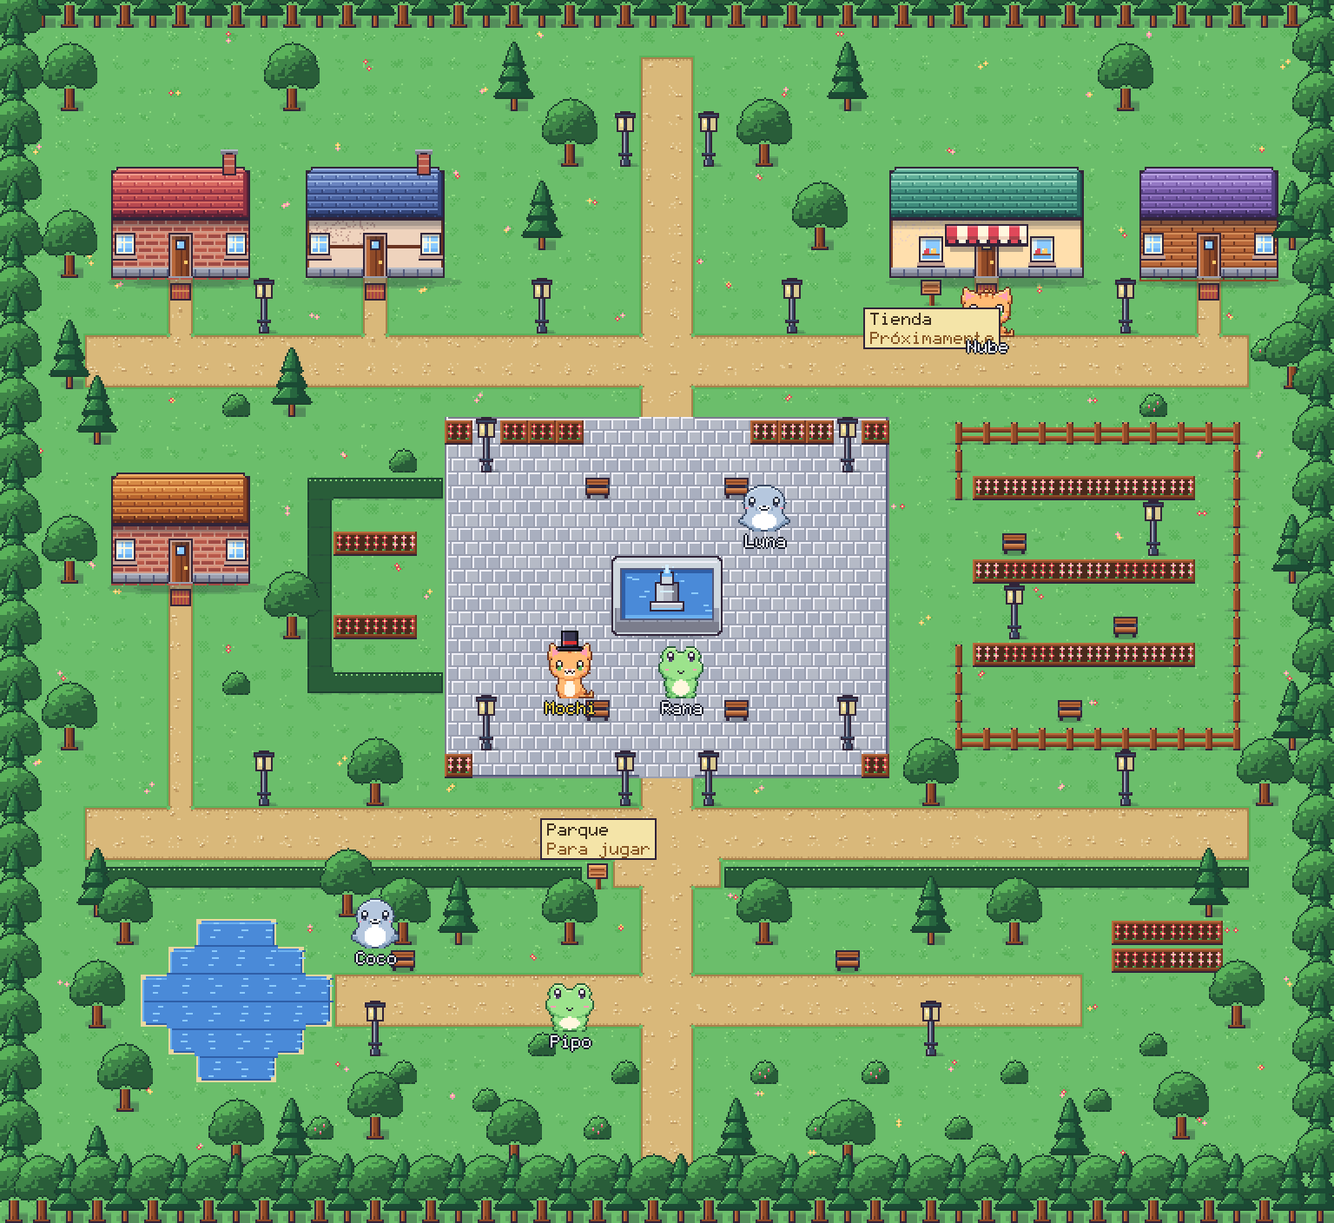
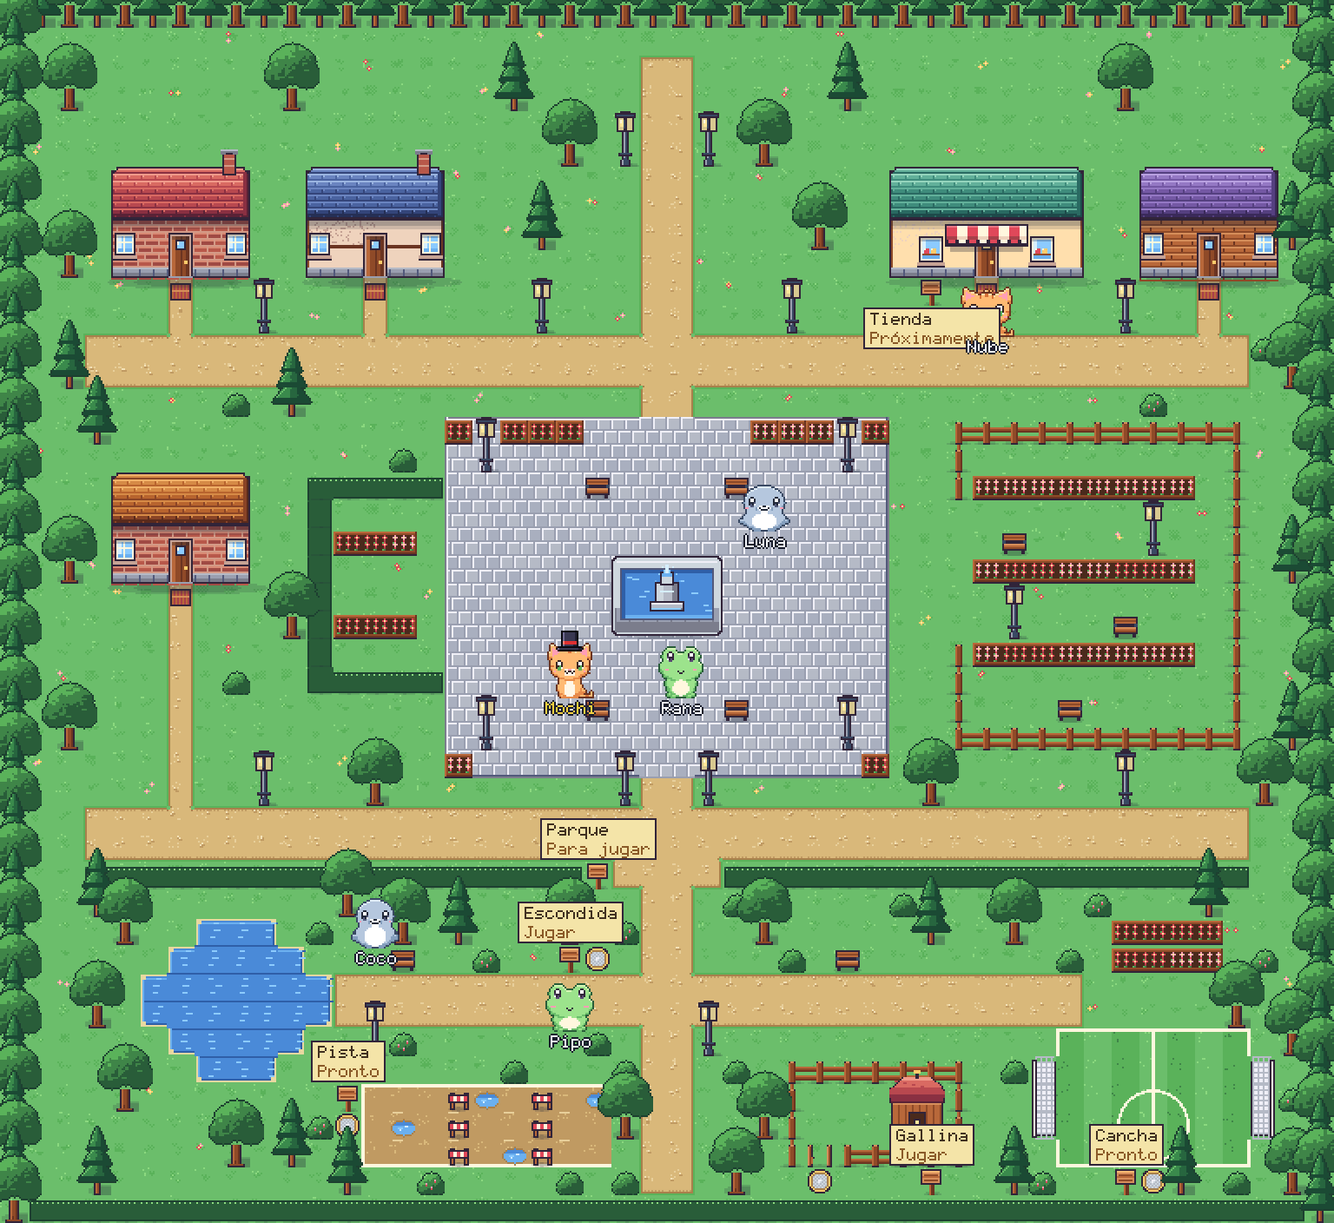
feat(map): game places in the Parque: gallinero, cancha, pista and the escondida pad, each with a signpost

diff --git a/src/art/places.js b/src/art/places.js
@@ -1,0 +1,108 @@
+// The game places of the Parque, drawn in the town's palette: the pad a pet stands on, the gallinero's gate and coop, the cancha's pitch
+// and goals, the pista's lanes, hurdles and puddles. Ground functions paint one 16 px tile at (x, y); `at(dx, dy)` answers the neighbours' chars.
+import { P, noise, rect, dot, shadow, canvas } from './palette.js';
+import * as G from './ground.js';
+
+/** The pad: a round stepping stone with a gold ring, so it reads as "stand here". */
+export function pad(ctx, x, y, tx, ty) {
+  G.grass(ctx, x, y, tx, ty);
+  const cx = x + 8, cy = y + 8;
+  for (let j = -7; j <= 7; j++) for (let i = -7; i <= 7; i++) {
+    const d = Math.hypot(i + 0.5, j + 0.5);
+    if (d > 7.2) continue;
+    dot(ctx, d > 6.2 ? P.ink : d > 5.2 ? P.yellow : d > 4.4 ? P.d0 : (i + j) % 2 ? P.s3 : P.s4, cx + i, cy + j);
+  }
+  for (const [i, j] of [[-1, -1], [0, -1], [-1, 0]]) dot(ctx, P.s5, cx + i, cy + j);
+}
+
+/** The open gate: two posts and the leaf swung open to one side. */
+export function gate(ctx, x, y, tx, ty) {
+  G.grass(ctx, x, y, tx, ty);
+  for (const px of [1, 12]) {
+    rect(ctx, P.ink, x + px, y + 3, 3, 13); rect(ctx, P.w2, x + px + 1, y + 4, 1, 11); rect(ctx, P.w4, x + px, y + 4, 1, 11); rect(ctx, P.w4, x + px + 1, y + 3, 1, 1);
+  }
+  rect(ctx, P.ink, x + 3, y + 9, 1, 5); rect(ctx, P.w3, x + 3, y + 10, 1, 4);                          // the leaf, open against the post
+  rect(ctx, P.ink, x + 4, y + 10, 1, 1);
+  shadow(ctx, x + 8, y + 15, 7, 1.5, 0.22);
+}
+
+const pitchLike = (c) => c === 'y' || c === 'g';
+
+/** Mowed grass in stripes with the white lines: the border, the halfway line and the centre circle. */
+export function pitch(ctx, x, y, tx, ty, at, c) {
+  rect(ctx, tx % 2 ? P.g3 : P.g2, x, y, 16, 16);
+  for (let i = 0; i < 4; i++) dot(ctx, tx % 2 ? P.g4 : P.g1, x + ((noise(tx, ty, 80 + i) * 15) | 0), y + ((noise(tx, ty, 90 + i) * 15) | 0));
+  const line = (px, py, w, h) => rect(ctx, P.cream, x + px, y + py, w, h);
+  if (!pitchLike(at(0, -1))) line(0, 0, 16, 2);
+  if (!pitchLike(at(0, 1))) line(0, 14, 16, 2);
+  if (!pitchLike(at(-1, 0)) && at(-1, 0) !== 'g') line(0, 0, 2, 16);
+  if (!pitchLike(at(1, 0)) && at(1, 0) !== 'g') line(14, 0, 2, 16);
+  if (tx === c.x + (c.w >> 1)) line(7, 0, 2, 16);
+  const cx = (c.x + (c.w >> 1)) * 16 + 8, cy = (c.y + (c.h >> 1)) * 16 + 8;
+  for (let j = 0; j < 16; j++) for (let i = 0; i < 16; i++) {
+    if (Math.abs(Math.hypot(tx * 16 + i - cx + 0.5, ty * 16 + j - cy + 0.5) - 20) < 0.8) dot(ctx, P.cream, x + i, y + j);
+  }
+}
+
+/** A goal seen from above: two posts and a net, open towards the pitch (`side` -1 on the left end, 1 on the right). */
+export function goal(ctx, x, y, tx, ty, at, side) {
+  rect(ctx, P.g3, x, y, 16, 16);
+  const top = at(0, -1) !== 'g', bottom = at(0, 1) !== 'g';
+  const x0 = side < 0 ? 3 : 0, x1 = side < 0 ? 16 : 13;
+  rect(ctx, P.ink, x + x0, y + (top ? 3 : 0), x1 - x0, 16 - (top ? 3 : 0) - (bottom ? 2 : 0));
+  rect(ctx, P.s5, x + x0 + 1, y + (top ? 4 : 0), x1 - x0 - 2, 16 - (top ? 4 : 0) - (bottom ? 3 : 0));
+  for (let j = 0; j < 16; j += 3) rect(ctx, P.s3, x + x0 + 1, y + j, x1 - x0 - 2, 1);                     // the net
+  for (let i = x0 + 1; i < x1 - 1; i += 3) rect(ctx, P.s3, x + i, y, 1, 16);
+  const post = side < 0 ? x + 3 : x + 12;
+  rect(ctx, P.ink, post - 1, y + (top ? 2 : 0), 3, 16 - (top ? 2 : 0) - (bottom ? 1 : 0)); rect(ctx, P.cream, post, y + (top ? 3 : 0), 1, 16 - (top ? 3 : 0) - (bottom ? 2 : 0));
+}
+
+/** One lane of the pista: packed earth with a lighter lane line and a darker rim on the outer sides. */
+export function track(ctx, x, y, tx, ty, at) {
+  rect(ctx, P.d1, x, y, 16, 16);
+  for (let i = 0; i < 7; i++) dot(ctx, noise(tx, ty, 100 + i) > 0.5 ? P.d0 : P.d2, x + ((noise(tx, ty, 110 + i) * 15) | 0), y + ((noise(tx, ty, 120 + i) * 15) | 0));
+  if (at(0, -1) !== 'j' && at(0, -1) !== 'V' && at(0, -1) !== 'w') rect(ctx, P.cream, x, y, 16, 2); else if ((tx & 1) === 0) rect(ctx, P.d3, x + 2, y, 6, 1);
+  if (at(0, 1) !== 'j' && at(0, 1) !== 'V' && at(0, 1) !== 'w') rect(ctx, P.cream, x, y + 14, 16, 2);
+  if (at(-1, 0) !== 'j' && at(-1, 0) !== 'V' && at(-1, 0) !== 'w') rect(ctx, P.cream, x, y, 2, 16);        // the start line
+}
+
+/** A hurdle across a lane: two posts and a striped bar. */
+export function hurdle(ctx, x, y, tx, ty, at) {
+  track(ctx, x, y, tx, ty, at);
+  shadow(ctx, x + 8, y + 14, 6, 1.5, 0.28);
+  for (const px of [3, 11]) { rect(ctx, P.ink, x + px, y + 5, 3, 10); rect(ctx, P.w3, x + px + 1, y + 6, 1, 8); }
+  rect(ctx, P.ink, x + 2, y + 6, 12, 5);
+  for (let i = 0; i < 5; i++) { rect(ctx, i % 2 ? P.cream : P.red, x + 3 + i * 2, y + 7, 2, 3); }
+}
+
+/** A puddle on a lane: a rippled blob of water. */
+export function puddle(ctx, x, y, tx, ty, at) {
+  track(ctx, x, y, tx, ty, at);
+  const inside = (i, j) => ((i - 8) / 6.5) ** 2 + ((j - 9) / 4) ** 2 <= 1;
+  for (let j = 4; j < 15; j++) for (let i = 1; i < 15; i++) {
+    if (inside(i, j)) dot(ctx, j < 8 ? P.a1 : P.a2, x + i, y + j);
+    else if (inside(i - 1, j) || inside(i + 1, j) || inside(i, j - 1) || inside(i, j + 1)) dot(ctx, P.d0, x + i, y + j);
+  }
+  rect(ctx, P.a3, x + 5, y + 9, 3, 1); rect(ctx, P.a4, x + 9, y + 8, 2, 1); dot(ctx, P.a4, x + 6, y + 10);
+}
+
+/** The coop, 32 x 40 (two tiles wide, two tall plus the roof): a red-roofed hut with a round door and a perch. */
+export function coop() {
+  const c = canvas(32, 40), ctx = c.getContext('2d');
+  rect(ctx, P.ink, 1, 18, 30, 22); rect(ctx, P.w3, 2, 19, 28, 20);                                       // walls: planks
+  for (let i = 5; i < 30; i += 4) rect(ctx, P.w2, i, 19, 1, 20);
+  rect(ctx, P.w4, 2, 19, 28, 1); rect(ctx, P.w1, 2, 38, 28, 1);
+  rect(ctx, P.ink, 11, 24, 10, 15); rect(ctx, P.w0, 12, 25, 8, 14); rect(ctx, P.ink, 14, 28, 4, 4); rect(ctx, P.yellow2, 15, 29, 2, 2);   // the pop hole
+  rect(ctx, P.w2, 11, 36, 10, 1); rect(ctx, P.w3, 11, 37, 10, 1);                                         // the ramp
+  const roof = ['#5a2236', '#8a3042', '#b8484f', '#d96a62', '#f09a8a'];
+  for (let j = 0; j < 12; j++) {                                                                          // the roof: a stepped triangle
+    const hw = 8 + j * 1.1;
+    rect(ctx, P.ink, Math.round(16 - hw - 1), 4 + j, Math.round(hw * 2 + 2), 1);
+    rect(ctx, roof[j < 2 ? 4 : j < 6 ? 3 : j < 10 ? 2 : 1], Math.round(16 - hw), 4 + j, Math.round(hw * 2), 1);
+  }
+  rect(ctx, P.ink, 0, 16, 32, 3); rect(ctx, roof[1], 1, 16, 30, 2); rect(ctx, roof[0], 1, 18, 30, 1);
+  for (let i = 3; i < 30; i += 5) rect(ctx, roof[2], i, 6 + ((i / 5) | 0), 2, 1);
+  rect(ctx, P.ink, 15, 1, 2, 4); rect(ctx, P.yellow, 14, 0, 4, 2);                                        // the weather vane
+  shadow(ctx, 16, 38, 15, 2.5, 0.3);
+  return c;
+}

diff --git a/src/map.js b/src/map.js
@@ -23,6 +23,15 @@ export const TILES = {
   'S': { name: 'sign', solid: true },
   'H': { name: 'building', solid: true },     // roof, wall or the door of a house that cannot be entered
   'E': { name: 'door', solid: false },         // a door that can be entered (see DOORS)
+  // the game places in the Parque (see GAME_PLACES)
+  'p': { name: 'spot', solid: false },         // the pad a pet stands on to start a game
+  'a': { name: 'gate', solid: false },         // the open gate of the gallinero
+  'G': { name: 'coop', solid: true },
+  'y': { name: 'pitch', solid: false },        // the cancha's grass
+  'g': { name: 'goal', solid: true },
+  'j': { name: 'track', solid: false },        // the pista's lanes
+  'V': { name: 'hurdle', solid: false },       // walkable for now: the race game will make pets jump it
+  'w': { name: 'puddle', solid: false },
   // the shop
   '_': { name: 'floor', solid: false },
   'r': { name: 'rug', solid: false },
@@ -64,7 +73,36 @@ export const DOORS = {
 export const SIGNS = [
   { area: 'town', x: 21, y: 31, text: 'Parque', sub: 'Para jugar' },
   { area: 'town', x: 33, y: 10, text: 'Tienda', sub: 'Próximamente', below: true },
+  { area: 'town', x: 20, y: 34, text: 'Escondida', sub: 'Jugar' },
+  { area: 'town', x: 33, y: 42, text: 'Gallina', sub: 'Jugar' },
+  { area: 'town', x: 40, y: 42, text: 'Cancha', sub: 'Pronto' },
+  { area: 'town', x: 12, y: 39, text: 'Pista', sub: 'Pronto' },
   { area: 'shop', x: 6.5, y: 2, text: 'Tienda', sub: 'Próximamente' },
+];
+
+/**
+ * The games' places, all in the Parque. `spot`: the pad tiles a pet stands on to start the game, `sign`: its signpost, `zone`: the
+ * tiles the game is played on (pets playing cannot leave it). `playable: false` places are drawn and signed but have no game yet.
+ */
+export const GAME_PLACES = {
+  hide: { name: 'Escondida', area: 'town', spot: [[21, 34]], sign: [20, 34], zone: { x: 1, y: 32, w: 46, h: 11 } },
+  chicken: { name: 'Pillar la gallina', area: 'town', spot: [[29, 42]], sign: [33, 42], zone: { x: 26, y: 37, w: 11, h: 6 } },
+  soccer: { name: 'Cancha', area: 'town', playable: false, spot: [[41, 42]], sign: [40, 42], zone: { x: 37, y: 37, w: 9, h: 6 } },
+  race: { name: 'Pista', area: 'town', playable: false, spot: [[12, 40]], sign: [12, 39], zone: { x: 12, y: 38, w: 10, h: 5 } },
+};
+export const GAME_IDS = Object.keys(GAME_PLACES);
+export const inZone = (g, x, y) => {
+  const z = Object.hasOwn(GAME_PLACES, g) ? GAME_PLACES[g].zone : null;
+  return !!z && Number.isInteger(x) && Number.isInteger(y) && x >= z.x && y >= z.y && x < z.x + z.w && y < z.y + z.h;
+};
+/** The game whose pad is at this tile of the town, or null. */
+export const spotAt = (x, y) => GAME_IDS.find((g) => GAME_PLACES[g].spot.some(([sx, sy]) => sx === x && sy === y)) || null;
+
+/** Floating icons over the main places: (x, y) in tile units is the badge's centre and its bottom edge. */
+export const PLACES = [
+  { id: 'shop', area: 'town', icon: 'shop', x: 35.5, y: 5.7 },
+  { id: 'park', area: 'town', icon: 'park', x: 21.5, y: 29.15 },
+  ...GAME_IDS.map((g) => ({ id: g, area: 'town', icon: g, x: GAME_PLACES[g].spot[0][0] + 0.5, y: GAME_PLACES[g].sign[1] - 1.85 })),
 ];
 
 export const SPAWNS = [[19, 18], [28, 18], [18, 21], [29, 21], [19, 24], [28, 24], [22, 24], [25, 24]];
@@ -126,8 +164,29 @@ function buildTown() {
     for (const [x, y] of [[4, 33], [3, 36], [4, 39], [13, 40], [14, 33], [20, 33], [27, 33], [36, 33], [44, 36], [42, 40], [30, 41], [18, 41], [8, 41], [12, 32]]) set(x, y, 't');
     for (const [x, y] of [[3, 32], [10, 41], [16, 33], [38, 41], [43, 32], [33, 33], [3, 42], [26, 41]]) set(x, y, 'T');
     for (const [x, y] of [[8, 40], [14, 38], [17, 39], [19, 37], [21, 40], [27, 38], [29, 40], [31, 38], [34, 40], [36, 38], [39, 39], [41, 37], [43, 41], [11, 40], [22, 38], [35, 41]]) set(x, y, 'b');
+    // the game places: a cleared field south of the road, each place with its pad and signpost (see GAME_PLACES)
+    fill(12, 37, 35, 6, '.');
+    fill(23, 37, 2, 6, '=');
+    set(13, 37, 'L'); set(25, 37, 'L');
+    for (const gp of Object.values(GAME_PLACES)) {
+      for (const [x, y] of gp.spot) set(x, y, 'p');
+      set(gp.sign[0], gp.sign[1], 'S');
+    }
+    // the pista: three lanes with two hurdles each and a few puddles
+    fill(13, 39, 9, 3, 'j');
+    for (const x of [16, 19]) fill(x, 39, 1, 3, 'V');
+    for (const [x, y] of [[14, 40], [18, 41], [21, 39], [17, 39]]) set(x, y, 'w');
+    // the gallinero: a fenced pen with a coop and the gate open towards the pad
+    fill(28, 38, 7, 1, 'F'); fill(28, 41, 7, 1, 'F'); fill(28, 39, 1, 2, 'F'); fill(34, 39, 1, 2, 'F');
+    set(29, 41, 'a'); fill(32, 39, 2, 2, 'G');
+    // the cancha: a pitch with a goal at each end
+    fill(38, 37, 7, 5, 'y'); fill(37, 38, 1, 3, 'g'); fill(45, 38, 1, 3, 'g');
+    // the rest of the park: trees at the edges and bushes to hide in
+    for (const [x, y] of [[12, 42], [22, 40], [36, 42], [46, 42], [46, 37], [27, 40], [42, 42], [26, 42]]) set(x, y, (x + y) % 3 ? 't' : 'T');
+    for (const [x, y] of [[14, 37], [18, 38], [21, 37], [15, 42], [20, 42], [22, 38], [22, 42], [26, 38], [26, 41], [36, 38], [36, 41], [37, 42], [44, 42], [46, 39], [46, 41], [17, 34], [22, 33], [28, 34], [32, 32], [38, 34], [45, 34], [11, 33], [26, 32], [39, 32]]) set(x, y, 'b');
     // trees: the border and some clumps between the houses (never on a path)
     for (let x = 0; x < w; x++) { set(x, 0, x % 2 ? 'T' : 't'); set(x, h - 1, x % 2 ? 't' : 'T'); }
+    for (let x = 1; x < w - 1; x++) set(x, h - 1, 'h');          // the park's south edge is a low hedge: tall trees there would cover the game pads
     for (let y = 0; y < h; y++) { set(0, y, y % 2 ? 't' : 'T'); set(w - 1, y, y % 2 ? 'T' : 't'); }
     for (const [x, y] of [[2, 3], [10, 3], [18, 3], [30, 3], [40, 3], [46, 8], [2, 9], [19, 8], [29, 8], [2, 13], [3, 15], [10, 14], [20, 5], [27, 5], [46, 13], [46, 20], [46, 26], [2, 26], [2, 20], [10, 22], [45, 28], [33, 28], [13, 28]]) set(x, y, (x + y) % 3 ? 't' : 'T');
     for (const [x, y] of [[8, 14], [14, 16], [45, 12], [41, 14], [8, 24]]) set(x, y, 'b');

diff --git a/index.html b/index.html
@@ -3,45 +3,46 @@
 <head>
   <meta charset="utf-8">
   <meta name="viewport" content="width=device-width, initial-scale=1, viewport-fit=cover">
-  <meta http-equiv="Content-Security-Policy" content="default-src 'self'; script-src 'self' 'sha256-5hniU4gyVJrScHuz21UWbI948BiqXZ00n0BD9IQ6IpQ=' https://cdn.jsdelivr.net; connect-src 'self' https://*.supabase.co wss://*.supabase.co https://cdn.jsdelivr.net; img-src 'self' data: blob:; style-src 'self'; base-uri 'none'; form-action 'none'">
+  <meta http-equiv="Content-Security-Policy" content="default-src 'self'; script-src 'self' 'sha256-4oNqSf5B3j2ss9RroEXRt3lOc7e6AC3BuFXCPJ4Qtbs=' https://cdn.jsdelivr.net; connect-src 'self' https://*.supabase.co wss://*.supabase.co https://cdn.jsdelivr.net; img-src 'self' data: blob:; style-src 'self'; base-uri 'none'; form-action 'none'">
   <meta name="theme-color" content="#181c2c">
   <title>Ciudad</title>
   <!-- stamp:start -->
   <script type="importmap">
 {
   "imports": {
-    "./src/art/bake.js": "./src/art/bake.js?v=47eb743a90",
-    "./src/art/buildings.js": "./src/art/buildings.js?v=47eb743a90",
-    "./src/art/ground.js": "./src/art/ground.js?v=47eb743a90",
-    "./src/art/interior.js": "./src/art/interior.js?v=47eb743a90",
-    "./src/art/palette.js": "./src/art/palette.js?v=47eb743a90",
-    "./src/art/props.js": "./src/art/props.js?v=47eb743a90",
-    "./src/code.js": "./src/code.js?v=47eb743a90",
-    "./src/config-check.js": "./src/config-check.js?v=47eb743a90",
-    "./src/daynight.js": "./src/daynight.js?v=47eb743a90",
-    "./src/entrance.js": "./src/entrance.js?v=47eb743a90",
-    "./src/font.js": "./src/font.js?v=47eb743a90",
-    "./src/keepsake.js": "./src/keepsake.js?v=47eb743a90",
-    "./src/main.js": "./src/main.js?v=47eb743a90",
-    "./src/map.js": "./src/map.js?v=47eb743a90",
-    "./src/net.js": "./src/net.js?v=47eb743a90",
-    "./src/path.js": "./src/path.js?v=47eb743a90",
-    "./src/protocol.js": "./src/protocol.js?v=47eb743a90",
-    "./src/render.js": "./src/render.js?v=47eb743a90",
-    "./src/shot.js": "./src/shot.js?v=47eb743a90",
-    "./src/sprites.js": "./src/sprites.js?v=47eb743a90",
-    "./src/town.js": "./src/town.js?v=47eb743a90",
-    "./src/transport-local.js": "./src/transport-local.js?v=47eb743a90",
-    "./src/transport-supabase.js": "./src/transport-supabase.js?v=47eb743a90",
-    "./src/trip-code.js": "./src/trip-code.js?v=47eb743a90",
-    "./src/trip.js": "./src/trip.js?v=47eb743a90",
-    "./src/walker.js": "./src/walker.js?v=47eb743a90",
-    "./config.js": "./config.js?v=47eb743a90"
+    "./src/art/bake.js": "./src/art/bake.js?v=4a0e886597",
+    "./src/art/buildings.js": "./src/art/buildings.js?v=4a0e886597",
+    "./src/art/ground.js": "./src/art/ground.js?v=4a0e886597",
+    "./src/art/interior.js": "./src/art/interior.js?v=4a0e886597",
+    "./src/art/palette.js": "./src/art/palette.js?v=4a0e886597",
+    "./src/art/places.js": "./src/art/places.js?v=4a0e886597",
+    "./src/art/props.js": "./src/art/props.js?v=4a0e886597",
+    "./src/code.js": "./src/code.js?v=4a0e886597",
+    "./src/config-check.js": "./src/config-check.js?v=4a0e886597",
+    "./src/daynight.js": "./src/daynight.js?v=4a0e886597",
+    "./src/entrance.js": "./src/entrance.js?v=4a0e886597",
+    "./src/font.js": "./src/font.js?v=4a0e886597",
+    "./src/keepsake.js": "./src/keepsake.js?v=4a0e886597",
+    "./src/main.js": "./src/main.js?v=4a0e886597",
+    "./src/map.js": "./src/map.js?v=4a0e886597",
+    "./src/net.js": "./src/net.js?v=4a0e886597",
+    "./src/path.js": "./src/path.js?v=4a0e886597",
+    "./src/protocol.js": "./src/protocol.js?v=4a0e886597",
+    "./src/render.js": "./src/render.js?v=4a0e886597",
+    "./src/shot.js": "./src/shot.js?v=4a0e886597",
+    "./src/sprites.js": "./src/sprites.js?v=4a0e886597",
+    "./src/town.js": "./src/town.js?v=4a0e886597",
+    "./src/transport-local.js": "./src/transport-local.js?v=4a0e886597",
+    "./src/transport-supabase.js": "./src/transport-supabase.js?v=4a0e886597",
+    "./src/trip-code.js": "./src/trip-code.js?v=4a0e886597",
+    "./src/trip.js": "./src/trip.js?v=4a0e886597",
+    "./src/walker.js": "./src/walker.js?v=4a0e886597",
+    "./config.js": "./config.js?v=4a0e886597"
   }
 }
 </script>
   <!-- stamp:end -->
-  <link rel="stylesheet" href="style.css?v=47eb743a90">
+  <link rel="stylesheet" href="style.css?v=4a0e886597">
 </head>
 <body>
   <main id="lobby" class="screen">
@@ -101,6 +102,6 @@
     <a id="gone-lobby" class="btn" href="./" hidden>Ir a la ciudad</a>
   </main>
 
-  <script type="module" src="src/main.js?v=47eb743a90"></script>
+  <script type="module" src="src/main.js?v=4a0e886597"></script>
 </body>
 </html>

diff --git a/tests/map.test.js b/tests/map.test.js
@@ -1,6 +1,6 @@
 import test from 'node:test';
 import assert from 'node:assert/strict';
-import { AREAS, AREA_NAMES, TILES, SIGNS, SPAWNS, ENTRY, HOUSES, DOORS, isWalkable, inMap, tileAt, doorAt, getArea, TILE } from '../src/map.js';
+import { AREAS, AREA_NAMES, TILES, SIGNS, SPAWNS, ENTRY, HOUSES, DOORS, GAME_PLACES, GAME_IDS, PLACES, inZone, spotAt, isWalkable, inMap, tileAt, doorAt, getArea, TILE } from '../src/map.js';
 import { findPath, stepDir } from '../src/path.js';
 
 test('every area is a rectangle of known tiles', () => {
@@ -125,4 +125,37 @@ test('stepDir', () => {
   assert.equal(stepDir(1, 1, 0, 1), 'left');
   assert.equal(stepDir(1, 1, 1, 0), 'up');
   assert.equal(stepDir(1, 1, 1, 2), 'down');
+});
+
+test('game places: every pad is walkable, inside its own zone, next to nothing solid it needs, and every sign is a solid signpost', () => {
+  assert.deepEqual(GAME_IDS.sort(), ['chicken', 'hide', 'race', 'soccer']);
+  for (const g of GAME_IDS) {
+    const p = GAME_PLACES[g];
+    for (const [x, y] of p.spot) { assert.equal(tileAt(x, y), 'p', `${g} pad`); assert.ok(inZone(g, x, y), `${g} pad in its zone`); assert.equal(spotAt(x, y), g); }
+    assert.equal(tileAt(p.sign[0], p.sign[1]), 'S', `${g} sign`);
+    assert.ok(SIGNS.some((s) => s.x === p.sign[0] && s.y === p.sign[1]), `${g} sign has a board`);
+    const z = p.zone;
+    assert.ok(z.x >= 0 && z.y >= 0 && z.x + z.w <= AREAS.town.w && z.y + z.h <= AREAS.town.h, `${g} zone is on the map`);
+  }
+  assert.equal(spotAt(0, 0), null);
+  assert.equal(inZone('nope', 21, 34), false);
+  assert.equal(inZone('hide', 23, 20), false, 'the plaza is outside the Parque');
+  assert.equal(inZone('hide', 23, 33), true);
+});
+
+test('the gallinero is a closed pen with one open gate and a coop; the cancha has two goals; the pista has hurdles and puddles', () => {
+  const at = (x, y) => tileAt(x, y);
+  assert.equal(at(29, 41), 'a');
+  assert.ok(isWalkable(29, 41) && isWalkable(29, 40), 'the gate leads into the pen');
+  for (let x = 28; x <= 34; x++) { if (x !== 29) assert.equal(at(x, 41), 'F'); assert.equal(at(x, 38), 'F'); }
+  assert.equal(isWalkable(32, 39), false, 'the coop is solid');
+  const count = (ch) => AREAS.town.grid.join('').split(ch).length - 1;
+  assert.equal(count('g'), 6, 'two goals of three tiles');
+  assert.ok(count('V') >= 6 && count('w') >= 3 && count('y') >= 30 && count('j') >= 10);
+});
+
+test('every place has a floating icon, and the icons sit above their pads', () => {
+  const ids = PLACES.map((p) => p.id).sort();
+  assert.deepEqual(ids, ['chicken', 'hide', 'park', 'race', 'shop', 'soccer']);
+  for (const g of GAME_IDS) { const p = PLACES.find((e) => e.id === g); assert.ok(p.y < GAME_PLACES[g].spot[0][1]); }
 });

diff --git a/src/art/bake.js b/src/art/bake.js
@@ -1,14 +1,15 @@
 // Bakes an area (the town or an interior) into what the renderer needs: one ground canvas with every tile, small sprites for the tall
 // things that sort with the pets, the animated spots (pond ripples, the fountain), and what lights up at night (windows, lamps).
-import { TILE, HOUSES, inPlaza } from '../map.js';
+import { TILE, HOUSES, GAME_PLACES, inPlaza } from '../map.js';
 import { canvas, noise, shadow } from './palette.js';
 import * as G from './ground.js';
+import * as PL from './places.js';
 import { oak, pine, bush, lamp, lampLit, LAMP_GLOW, drawFountain } from './props.js';
 import { drawHouse, windowsOf, litWindow } from './buildings.js';
 import { drawInterior, counter, nightWindow, raccoon } from './interior.js';
 
 let sprites = null;
-const kit = () => sprites || (sprites = { oak: [oak(1), oak(2)], pine: [pine(1), pine(2)], bush: [bush(0), bush(1)], lamp: lamp(), lampLit: lampLit(), counter: counter(), nightWindow: nightWindow() });
+const kit = () => sprites || (sprites = { oak: [oak(1), oak(2)], pine: [pine(1), pine(2)], bush: [bush(0), bush(1)], lamp: lamp(), lampLit: lampLit(), coop: PL.coop(), counter: counter(), nightWindow: nightWindow() });
 
 function bakeTown(area) {
   const k = kit();
@@ -31,6 +32,14 @@ function bakeTown(area) {
       case 'F': G.grass(ctx, x, y, tx, ty); G.fence(ctx, x, y, tx, ty, at); break;
       case 'n': base(); G.bench(ctx, x, y, tx, ty); break;
       case 'S': G.grass(ctx, x, y, tx, ty); G.sign(ctx, x, y); break;
+      case 'p': PL.pad(ctx, x, y, tx, ty); break;
+      case 'a': PL.gate(ctx, x, y, tx, ty); break;
+      case 'y': PL.pitch(ctx, x, y, tx, ty, at, GAME_PLACES.soccer.zone); break;
+      case 'g': PL.goal(ctx, x, y, tx, ty, at, tx < GAME_PLACES.soccer.zone.x + 4 ? -1 : 1); break;
+      case 'j': PL.track(ctx, x, y, tx, ty, at); break;
+      case 'V': PL.hurdle(ctx, x, y, tx, ty, at); break;
+      case 'w': PL.puddle(ctx, x, y, tx, ty, at); break;
+      case 'G': G.grass(ctx, x, y, tx, ty); if (raw(tx - 1, ty) !== 'G' && raw(tx, ty - 1) !== 'G') out.props.push({ x, y: y + 32 - 40, sortY: y + 32, sprite: k.coop }); break;
       case 'o': G.plaza(ctx, x, y, tx, ty, at); break;
       case 't': G.grass(ctx, x, y, tx, ty); shadow(ctx, x + 14, y + 13, 13, 4, 0.32); out.props.push({ x: x - 8, y: y + 16 - 40, sortY: y + 16, sprite: k.oak[(tx * 3 + ty) & 1] }); break;
       case 'T': G.grass(ctx, x, y, tx, ty); shadow(ctx, x + 14, y + 13, 11, 3.5, 0.32); out.props.push({ x: x - 4, y: y + 16 - 40, sortY: y + 16, sprite: k.pine[(tx + ty) & 1] }); break;

diff --git a/src/shot.js b/src/shot.js
@@ -11,7 +11,7 @@ import { ambientAt } from './daynight.js';
 import { Walker } from './walker.js';
 
 const q = new URLSearchParams(location.search);
-const kind = ['town', 'shop', 'view'].includes(q.get('shot')) ? q.get('shot') : 'town';
+const kind = ['town', 'shop', 'view', 'park'].includes(q.get('shot')) ? q.get('shot') : 'town';
 const hour = q.has('hour') && Number.isFinite(Number(q.get('hour'))) ? Number(q.get('hour')) : 13;
 const scale = Math.max(1, Math.min(6, Number(q.get('scale')) | 0 || (kind === 'shop' ? 4 : kind === 'view' ? 3 : 2)));
 
@@ -27,6 +27,7 @@ async function main() {
   const entities = (kind === 'shop' ? CAST.shop : CAST.town).filter((e) => e.look.items.every((i) => !i || sprites.catalogue[i]));
   const me = entities[0], others = entities.slice(1);
   let vw = area.w * TILE, vh = area.h * TILE, cam = { x: 0, y: 0 };
+  if (kind === 'park') { cam = { x: 0, y: 29 * TILE }; vh = 15 * TILE; }
   if (kind === 'view') { vw = VIEW_W; vh = VIEW_H; cam = cameraFor(24 * TILE, 22 * TILE, area.w * TILE, area.h * TILE); }
   const scene = document.createElement('canvas');
   scene.width = vw; scene.height = vh;
